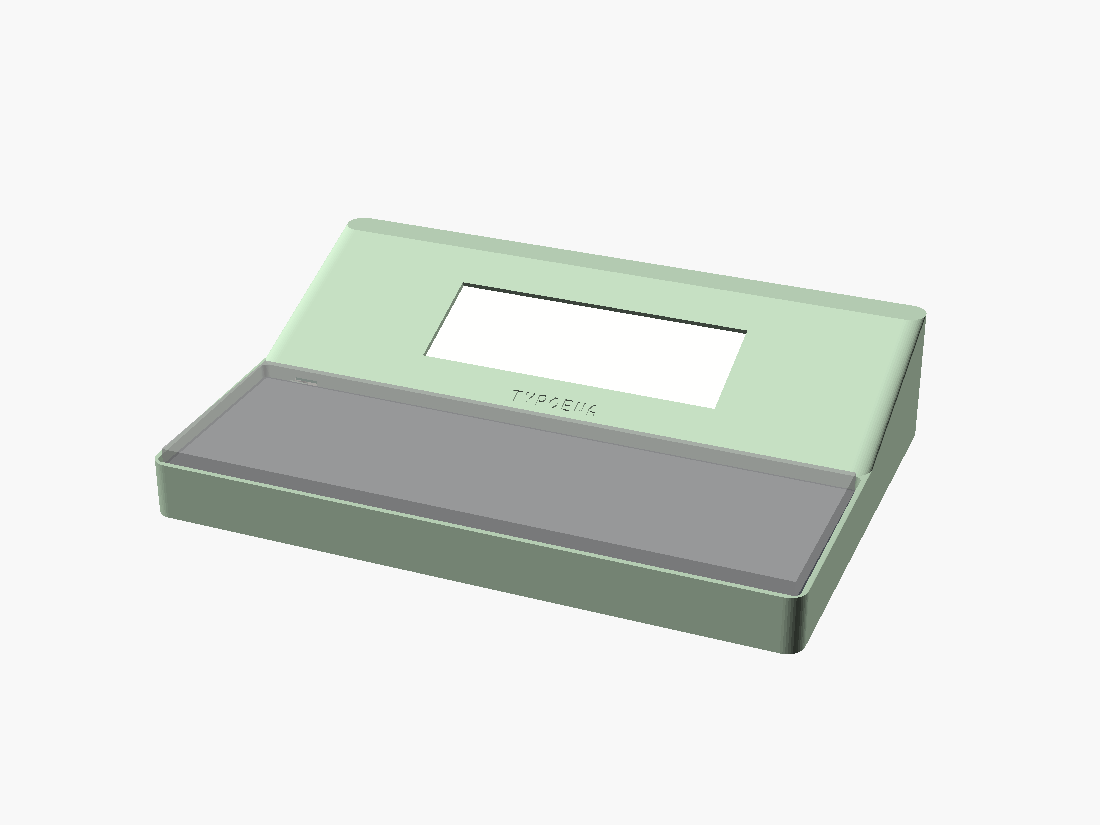
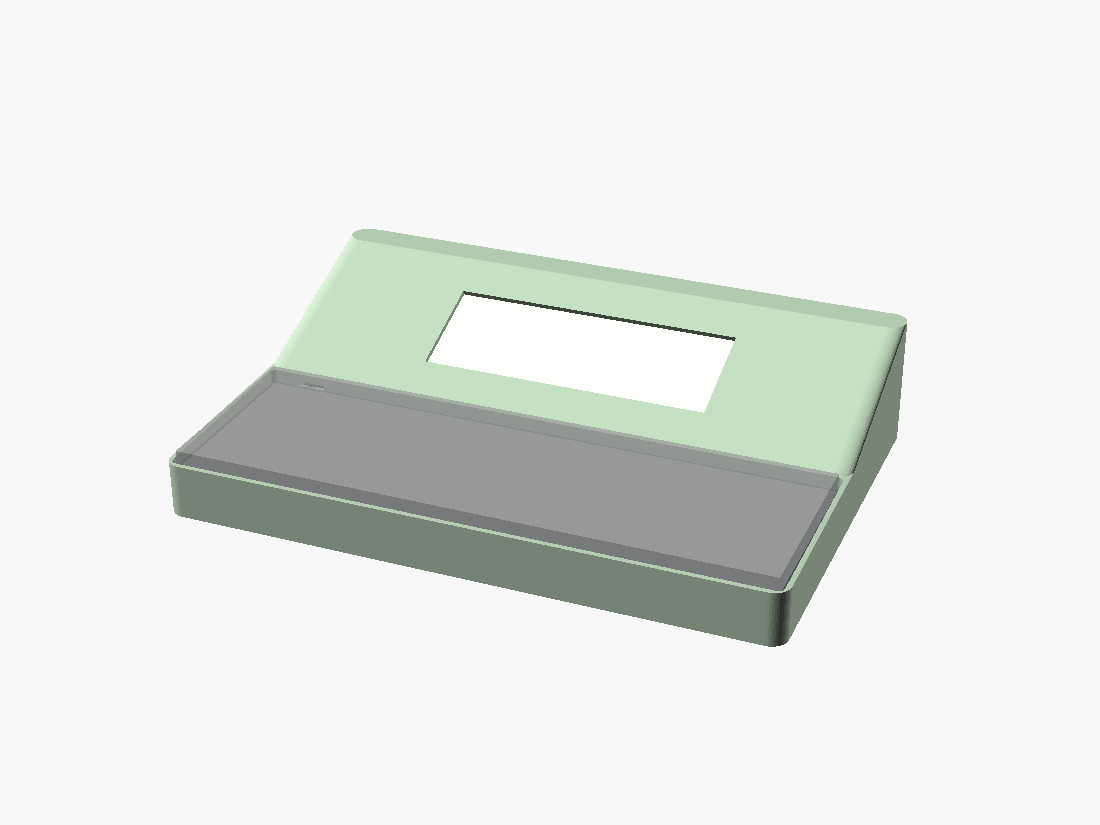
fix(case): Prepare body for print

diff --git a/hardware/case/README.md b/hardware/case/README.md
@@ -408,8 +408,6 @@ for the same reason and drill the same way.
 
 - Material PLA/PETG. Body in matte **sage** (`#B6CEB4`), bracket/base in cream or
   brass — the two-tone reads "typewriter" for a filament swap.
-- To make the recessed `TYPOENA` engrave read: a swipe of paint pen in the recess,
-  or a 3–4 layer filament swap across the nameplate band mid-print.
 - 2.4 mm walls + open bottom keep material low.
 - **Print the I/O coupon first.** `just stl-io` exports `io-coupon.stl` — a flat
   slice of the real back wall carrying only the four openings (2× USB-C, µSD,
@@ -421,9 +419,14 @@ for the same reason and drill the same way.
 
 ![The I/O fit coupon — charge, keyboard, µSD, power button](renders/io-coupon.png)
 - Print body deck-up (or on its back) for little/no support; bracket and baseplate
-  print flat. Nameplate font is set by `name_font` (current: **Monaspace
-  Krypton**, `brew install --cask font-monaspace`; run `fc-cache -f` so the CLI
-  finds it).
+  print flat.
+- **The deck ships blank** — `name_on = false`. The engraved `TYPOENA` nameplate
+  is still modelled and comes back with that one flag; it sits in the band between
+  the front edge and the screen, the only free deck area there is. If it does come
+  back it needs `name_font` installed (**Monaspace Krypton**, `brew install --cask
+  font-monaspace`, then `fc-cache -f` so the CLI finds it) and something to make
+  the recess read: a swipe of paint pen, or a 3–4 layer filament swap across the
+  band mid-print.
 - **No feet on this version** (`feet_mode = "none"`). They are modelled and can
   come back as their own part with `feet_mode = "separate"` + `just stl-feet` —
   four Ø14 × 3.5 discs, the front pair concentric with the screw bosses and bored
@@ -435,8 +438,6 @@ for the same reason and drill the same way.
   footprint, standoffs and nibs floating above it. As it stands all three parts
   print flat-face-down with every feature growing upward off the bed — no support
   anywhere.
-
-![The recessed TYPOENA engrave on the deck, in Monaspace Krypton](renders/nameplate.png)
 
 ## Open questions / TODO
 
@@ -471,6 +472,13 @@ for the same reason and drill the same way.
       9.7 × 4.2 and µSD 15.2 × 3.2. Dry-fitted on the second coupon: everything
       goes in, USB-C the snuggest of them. The switch keeps its own, smaller
       `pwr_fit` — see below.
+- [x] **Port Z measured as an absolute**, not off the board: with PCB 2 bolted to
+      its standoffs the USB-C shells span **10.5 … 13.5 mm off the baseplate's
+      underside** (`usbc_z` = 12.0 at the centre), which is the only height a
+      caliper can still reach once the board is in — and whose 3.0 mm span
+      re-confirms `usbc_h`. `usbc_cz` (2.8 above the board) now falls out of it;
+      the 3.5 it replaces was a guess and sat the whole block 0.7 mm high. The
+      µSD follows through `sd_rise`, unchanged.
 - [x] **Port X spacing is measured centre to centre**, 15.5 (charge→keyboard) and
       15.0 (keyboard→µSD) — the only spacing a caliper can reach on a populated
       board. The old edge-gap chain reproduced the USB-C pitch *exactly*, which is
@@ -483,6 +491,24 @@ for the same reason and drill the same way.
       charge shell (`chg_gap`), replacing the old chain's 8. The last unmeasured
       link in the block, and the one everything hangs off: it slides all three
       ports together. Centres are now 11.25 / 26.75 / 41.75 off the board edge.
+- [x] **Port X checked against a case datum** — on the *assembled* machine, in
+      from the **baseplate's right edge** (parts, no `port_fit` in the numbers):
+      µSD outer edge at **36.5**, charge USB-C outer edge at **78.6**. The model
+      already put the µSD at 36.50 — predicted to 0.01 mm from a datum the X
+      chain knows nothing about, which is what confirms the block's *position*.
+      Both edges are now **asserted** against `bp_x1`, so moving PCB 2 or
+      `chg_gap` fails the render instead of the coupon.
+- [ ] **0.35 mm of residual at the charge end.** That reading envelopes the
+      cluster at 42.1 where the dry-fitted pitches and widths give 41.75. It
+      cannot be taken out of a pitch — the coupon proved the pitches *on the
+      parts*, so the block is rigid and may only move bodily. Nor is it slack:
+      the comparison is part-to-part, `port_fit` never enters it. So it sits at
+      the charge shell — an outer flange, or a 42 mm span read across two
+      dissimilar parts. Anchored on the µSD, the charge shell would then sit
+      0.35 into its 0.6 mm of per-side slack, clearing by 0.25. Passes, but it is
+      the thinnest margin in the block: **re-check that one edge on the coupon**,
+      and if it is real, widen the *charge* opening alone — its rib to the
+      keyboard is 5.8 mm and can afford it, unlike the 2.55 next door.
 - [ ] **No blanket widening.** Rejected +2 mm on every opening: at a 15 mm
       keyboard→µSD pitch it leaves a 0.55 mm rib between those two, under two
       perimeters in a 2.4 mm wall, so the openings merge instead of printing. The
